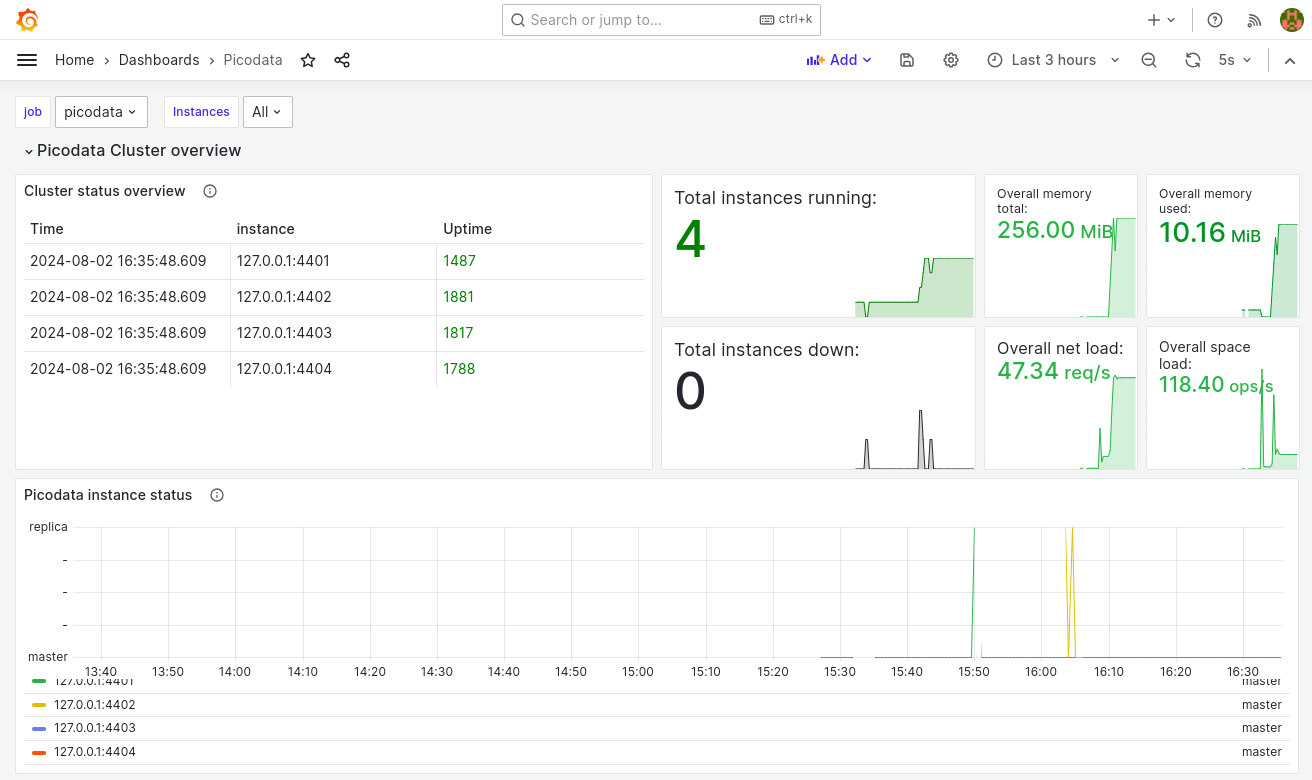
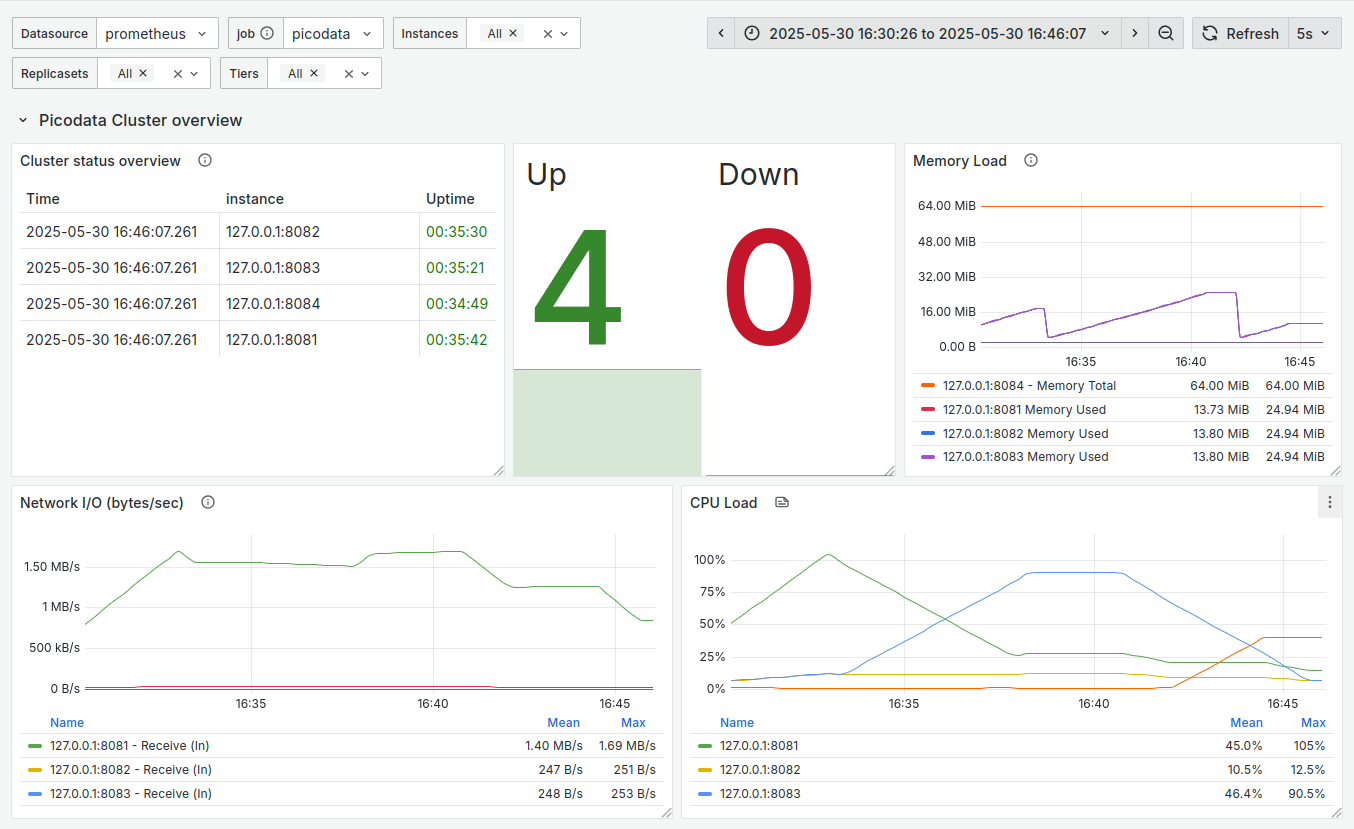
monitoring.md: rewrite and improve Grafana section

diff --git a/docs/docs/admin/monitoring.md b/docs/docs/admin/monitoring.md
@@ -214,7 +214,6 @@ WHERE "_pico_instance"."raft_id" = 2;
 из инстанса Picodata и предоставлять доступ к ним для внешних систем в
 формате Prometheus.
 
-
 ### Включение сбора метрик {: #enable_metrics }
 
 Модуль сбора метрик автоматически включается при использовании
@@ -226,7 +225,13 @@ WHERE "_pico_instance"."raft_id" = 2;
 picodata run --http-listen '127.0.0.1:8081'
 ```
 
-### Получение метрик {: #access_metrics }
+См. также:
+
+- Параметр конфигурации [instance.http.listen]
+
+[instance.http.listen]: ../reference/config.md#instance_http_listen
+
+### Метрики в консоли {: #curls_metrics }
 
 Метрики инстанса Picodata можно получить в консоли, используя `curl`:
 
@@ -238,11 +243,40 @@ curl --location 'http://127.0.0.1:8081/metrics'
 
 - [Справочник метрик](../reference/metrics.md)
 
-### Настройка Prometheus {: #prometheus }
+### Dashboard в Grafana {: #grafana }
 
-Для интеграции Picodata с системой мониторинга событий и оповещений
-[Prometheus](https://prometheus.io) настройте новую цель в файле
-`/etc/prometheus/prometheus.yml`:
+#### Быстрый запуск в Docker {: #docker_compose }
+
+Picodata предоставляет быстрый способ автоматически поднять
+веб-интерфейс [Grafana] и получить доступ к дашбоарду, отображающему
+метрики кластера. Для этого необходимо иметь в системе запущенную службу
+[Docker] и консольную утилиту `docker-compose`.
+
+В дереве исходного кода Picodata перейдите в директорию `monitoring` и
+выполните команду:
+
+```shell
+docker-compose up -d
+```
+На локальном узле будет запущен [Prometheus], настроенный на получение
+данных с адресов `127.0.0.1:8081`, `127.0.0.1:8082`, `127.0.0.1:8083`
+(адреса и прочие настройки Prometheus можно изменить в файле
+`monitoring/prometheus/prometheus.yml`).
+
+Также, будет поднят сервер Grafana по адресу `127.0.0.1:3000` (порт
+настраивается в файле `docker-compose.yml`). Для авторизации используйте
+`admin`/`grafana`.
+
+Импортируйте дашбоард Picodata из файла [Picodata.json].
+
+#### Настройка Prometheus и Grafana вручную {: #manual_setup }
+
+Перед настройкой Grafana сконфигурируйте и запустите систему мониторинга
+событий и оповещений [Prometheus], которая является источником данных
+для Grafana.
+
+Установите и настройте Prometheus согласно рекомендациям для вашей ОС.
+Укажите для Prometheus цели в файле `/etc/prometheus/prometheus.yml`:
 
 ```yaml
 global:
@@ -266,7 +300,7 @@ scrape_configs:
 - `127.0.0.1:9090` — адрес, с которого Prometheus будет отдавать метрики
 - `127.0.0.1:8081` — адрес, с которого Prometheus собирает метрики
   (должен соответствовать параметру `--http-listen` при запуске инстанса
-  Picodata)
+  Picodata или параметру [instance.http.listen] при использовании [файла конфигурации])
 
 Под каждый инстанс Picodata нужно выделять отдельный адрес сбора метрик.
 Например, если локально запустить 4 инстанса Picodata, то файл
@@ -289,10 +323,11 @@ scrape_configs:
       - targets: ['127.0.0.1:8081', '127.0.0.1:8082', '127.0.0.1:8083', '127.0.0.1:8084']
 ```
 
-### Настройка Grafana {: #grafana }
+После того как Prometheus сконфигурирован и запущен, установите и
+настройте Grafana согласно рекомендациям для вашей ОС. Удостоверьтесь,
+что Grafana работает, перейдя по адресу `127.0.0.1:3000`.
 
-Собранные в Prometheus метрики можно удобно просматривать в
-веб-интерфейсе [Grafana]. Для этого выполните следующие шаги.
+Далее выполните следующие шаги.
 
 1.&nbsp;Убедитесь, что в настройках подключений в Grafana (`Connections` >
    `Data sources`) имеется источник данных Prometheus:
@@ -310,10 +345,7 @@ scrape_configs:
 
 ![Picodata dashboard](../images/grafana/dashboard.png)
 
-[Grafana]: https://grafana.com/
+[Docker]: https://www.docker.com
+[Grafana]: https://grafana.com
+[Prometheus]: https://prometheus.io
 [Picodata.json]: https://git.picodata.io/core/picodata/-/tree/master/monitoring/dashboard
-
-<!-- См. также:
-
-- [Справочник метрик](../reference/metrics.md)
- -->
